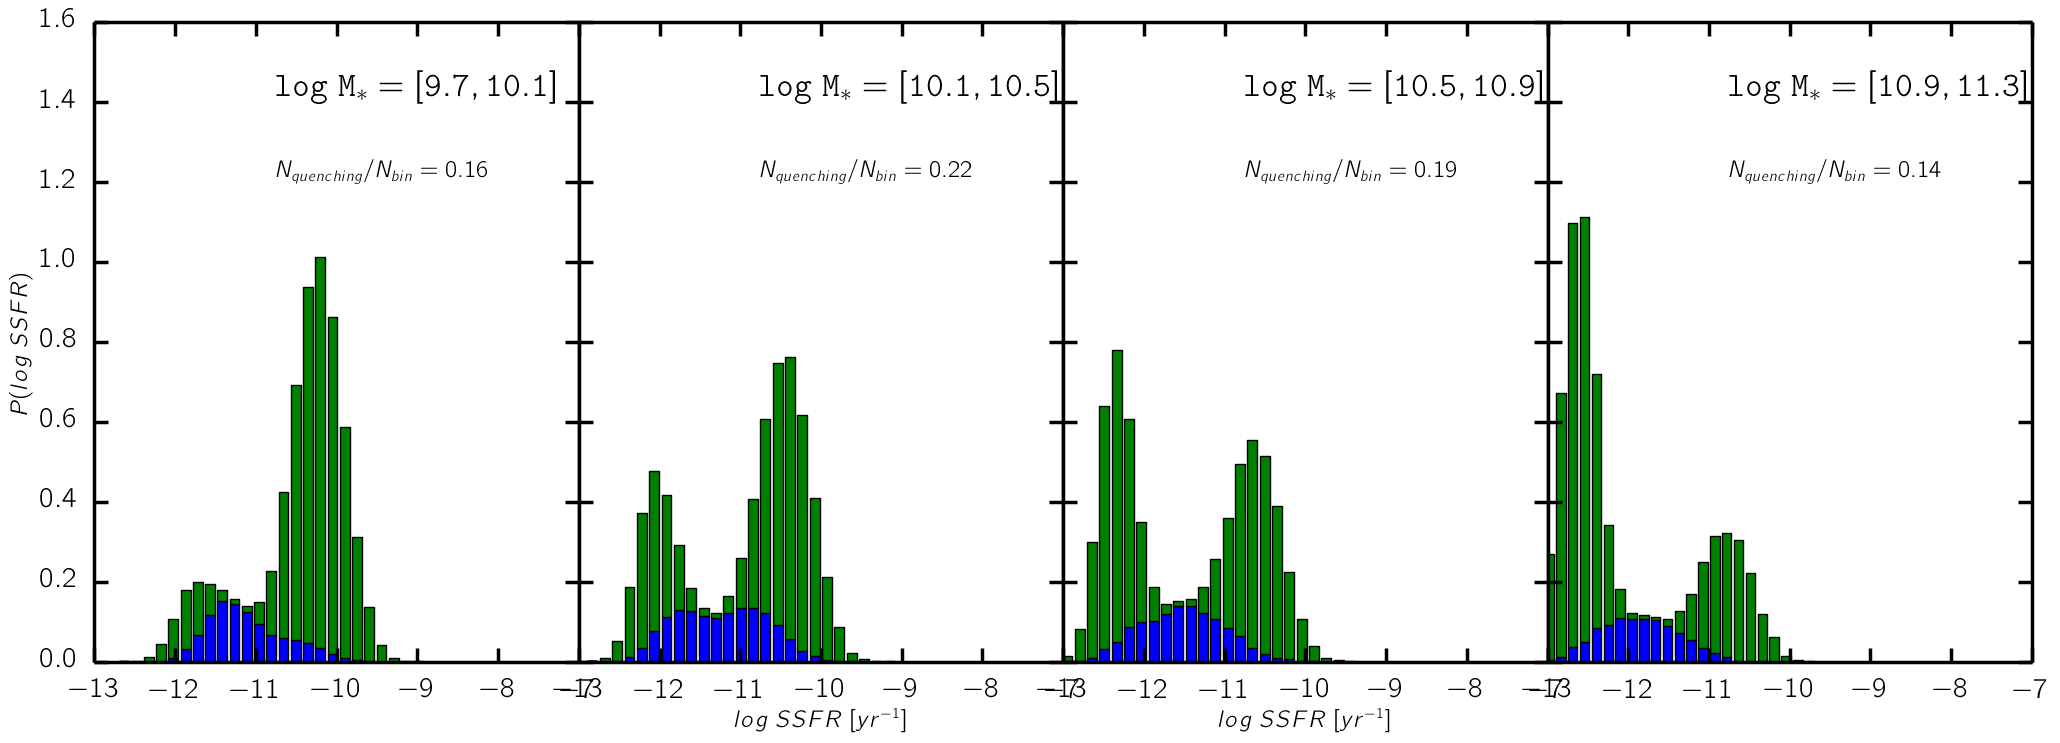
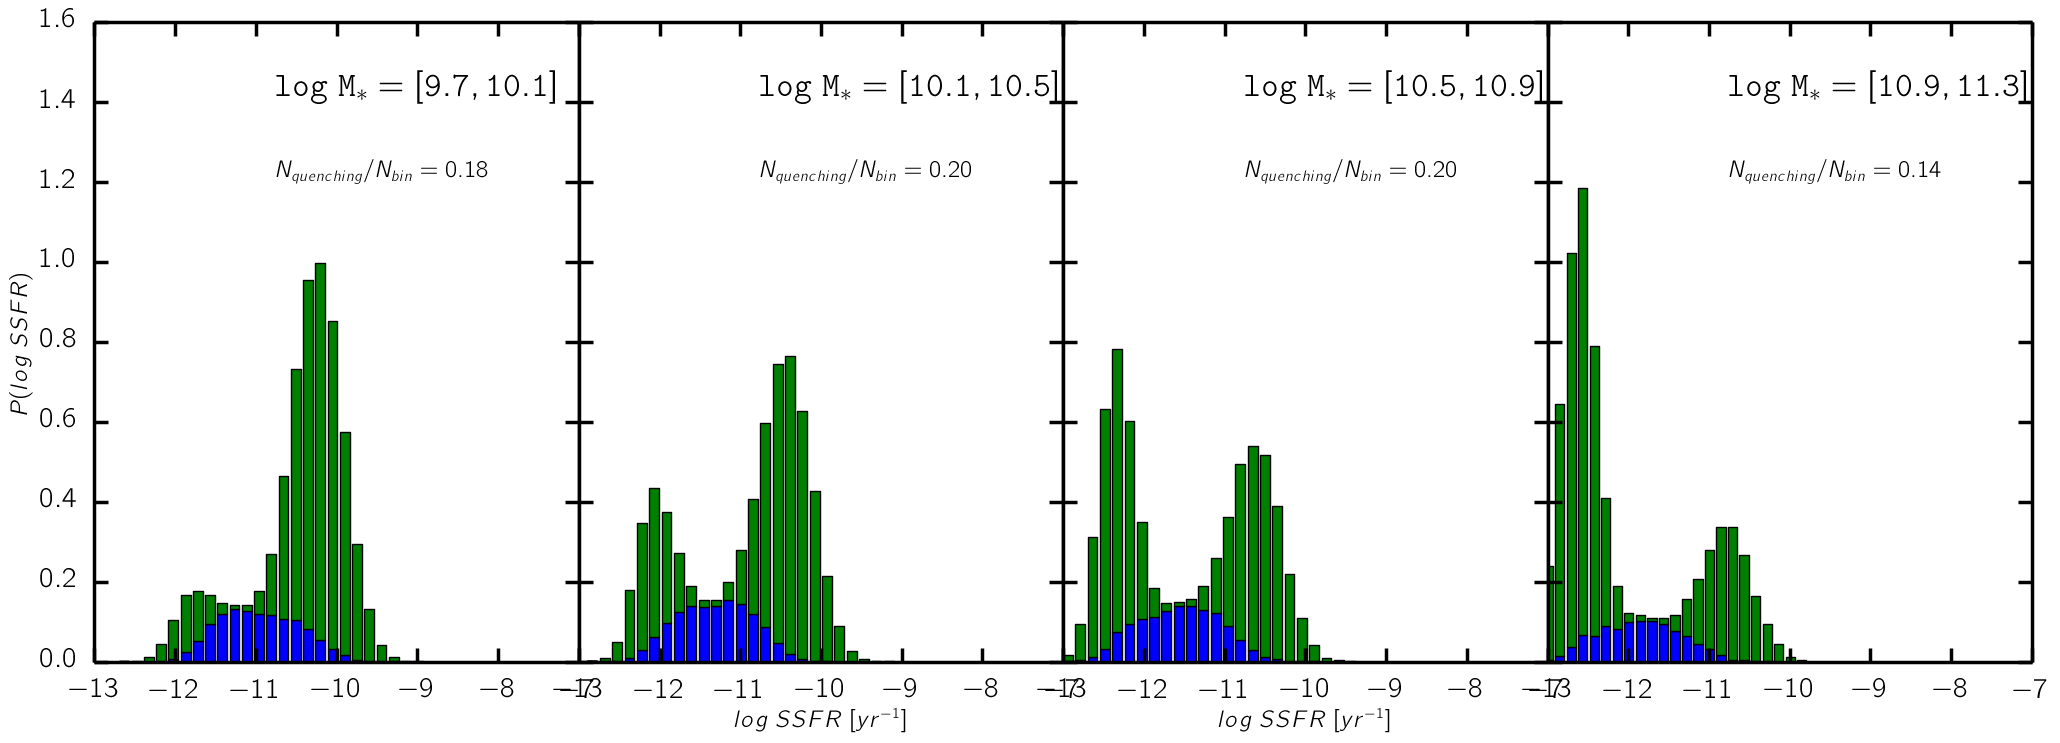
best fit for centrals complete; star formation duty cycle test in sf_mainseq.py

diff --git a/cenque_plot.py b/cenque_plot.py
@@ -27,8 +27,8 @@ def plot_cenque_ssfr_dist(cenque, fig=None, **kwargs):
     pretty_colors = prettycolors() 
     
     if fig == None: 
-        fig = plt.figure(1, figsize=(25,8))
-        fig.subplots_adjust(hspace=0., wspace=0.)
+        fig = plt.figure(1, figsize=(35,8))
+        #fig.subplots_adjust(hspace=0., wspace=0.)
         new_plot = True
     else: 
         new_plot = False
@@ -81,10 +81,11 @@ def plot_cenque_ssfr_dist(cenque, fig=None, **kwargs):
         else:
             line_width = 4
 
-        sub = fig.add_subplot(1, 4, i_mass+1)       # panel subplot 
+        sub = fig.add_subplot(1, 5, i_mass+1)       # panel subplot 
         sub.plot(ssfr_bin_mid, ssfr_hist, 
                 color=line_color, lw=line_width, ls=line_style, label=ssfr_hist_label) 
-    
+   
+        '''
         if cenque.zsnap: 
             ssfr_cut = -11.15 + 0.76*(cenque.zsnap - 0.05) - 0.35 * (panel_mass[0] - 10.5)
             sub.vlines( ssfr_cut, 0.0, 2.0, colors='black', linestyles='dashed')
@@ -92,10 +93,10 @@ def plot_cenque_ssfr_dist(cenque, fig=None, **kwargs):
             sub.vlines( ssfr_cut, 0.0, 2.0, colors='black', linestyles='solid')
             ssfr_cut = -11.15 + 0.76*(cenque.zsnap - 0.05) - 0.35 * (panel_mass[1] - 10.5)
             sub.vlines( ssfr_cut, 0.0, 2.0, colors='black', linestyles='dashed')
-
+        '''
         #sub.text(-12.0, 1.2, r'$N_{gal}='+str(ngal_bin)+'$')
         if new_plot == True:        # put mass labels in panels 
-            plt.text(-10.75, 1.4, 
+            plt.text(-11.25, 1.4, 
                     r'$\mathtt{log \; M_{*} = ['+str(panel_mass[0])+', '+str(panel_mass[1])+']}$', 
                     fontsize=24)
 
@@ -104,10 +105,10 @@ def plot_cenque_ssfr_dist(cenque, fig=None, **kwargs):
         sub.set_ylim([0.0, 1.6])
         # set y-axes labels
         if i_mass == 0: 
-            sub.set_ylabel(r'$P(log \; SSFR)$') 
+            sub.set_ylabel(r'$\mathtt{P(log \; SSFR)}$') 
         elif i_mass in [1, 2]:
             sub.set_yticklabels([])
-            sub.set_xlabel(r'$log \; SSFR \;[yr^{-1}]$') 
+            sub.set_xlabel(r'$\mathtt{log \; SSFR \;[yr^{-1}]}$') 
         else: 
             sub.set_yticklabels([])
                 
@@ -116,8 +117,32 @@ def plot_cenque_ssfr_dist(cenque, fig=None, **kwargs):
             except UnboundLocalError: 
                 pass
             
-            fig_leg = sub.legend(loc='lower right', prop={'size':'12'})        # legends 
+            fig_leg = sub.legend(loc='lower right', prop={'size':'24'})        # legends 
+    
+    if 'tau' in kwargs.keys(): 
+        sub = fig.add_subplot(1, 5, 5)       # tau panel 
 
+        mass_bin = util.simple_mass_bin()       # mass bin 
+        
+        # satellite quenching fraction 
+        tau_mass = util.get_quenching_efold(np.array(mass_bin.mass_mid), 
+                type='linear') 
+
+        sub.plot(mass_bin.mass_mid, tau_mass, color='black', lw=4, ls='--',
+                label=r'$\tau_\mathtt{satellite}$') 
+        
+        # central quenching fraction 
+        tau_mass = util.get_quenching_efold(np.array(mass_bin.mass_mid), 
+                type=kwargs['tau'], param=kwargs['tau_param']) 
+
+        sub.plot(mass_bin.mass_mid, tau_mass, color=pretty_colors[5], lw=4) 
+        
+        sub.set_xlim([9.0, 12.0])
+        sub.set_ylim([0.0, 1.0])
+        sub.set_xlabel('Mass') 
+        sub.set_ylabel(r'Quenching e-Fold time $\tau$') 
+        sub.yaxis.set_label_position('right')
+        sub.legend(loc='lower left', prop={'size':'24'}) 
     return fig   
 
 def plot_cenque_ssfr_dist_evolution(Mrcut=18, **kwargs): 
@@ -132,7 +157,7 @@ def plot_cenque_ssfr_dist_evolution(Mrcut=18, **kwargs):
     '''
     snap = cq.CenQue() 
     snap.readin(nsnap=13, file_type='sf assign', **kwargs)  # starting CenQue 
-    ssfr_fig = plot_cenque_ssfr_dist(snap, lw=2, line_style='--')      # plot!
+    #ssfr_fig = plot_cenque_ssfr_dist(snap, lw=2, line_style='--')      # plot!
     
     # determine which snapshots to plot 
     if 'nsnaps' in kwargs.keys():   
@@ -144,11 +169,12 @@ def plot_cenque_ssfr_dist_evolution(Mrcut=18, **kwargs):
         next_snap = cq.CenQue() 
         next_snap.readin(nsnap=i_nsnap, file_type='evol from 13', **kwargs) 
         
-        ssfr_fig = plot_cenque_ssfr_dist(next_snap, fig=ssfr_fig) 
+        #ssfr_fig = plot_cenque_ssfr_dist(next_snap, fig=ssfr_fig) 
+        ssfr_fig = plot_cenque_ssfr_dist(next_snap)#, fig=ssfr_fig) 
     
     # overplot SDSS group catalog sSFR dist
     central_ssfr = cq_group.central_catalog(Mrcut=Mrcut) 
-    ssfr_fig = plot_cenque_ssfr_dist(central_ssfr, fig=ssfr_fig, label= 'Mrcut = '+str(Mrcut)) 
+    ssfr_fig = plot_cenque_ssfr_dist(central_ssfr, fig=ssfr_fig, label= r'$M_\mathtt{r,cut} = '+str(Mrcut)+'$', **kwargs) 
     
     # file name ----------------------------------------------------------------------------
     # sfms specifier
@@ -1202,20 +1228,22 @@ if __name__=='__main__':
     #plot_cenque_ssfr_dist_evolution(nsnaps=[1], Mrcut=19, tau='linear')
     #plot_cenque_ssfr_dist_evolution(nsnaps=[1], Mrcut=18, tau='linear')
     
-    #plot_quenching_efold(['linear', 'linefit', 'linefit'], [[], [-0.6, 0.3], [-0.6, 0.4]]) 
+    #plot_quenching_efold(['linear', 'linefit', 'linefit'], [[], [-0.6, 0.3], [-0.7, 0.4]]) 
     
     tau_str = 'linefit'
-    tau_param_str = [-0.65, 0.4]
+    tau_param_str = [-0.7, 0.4]
     plot_cenque_ssfr_dist_evolution(nsnaps=[2], Mrcut=20, tau=tau_str, tau_param=tau_param_str)
     plot_cenque_ssfr_dist_evolution(nsnaps=[1], Mrcut=19, tau=tau_str, tau_param=tau_param_str)
     plot_cenque_ssfr_dist_evolution(nsnaps=[1], Mrcut=18, tau=tau_str, tau_param=tau_param_str)
     
+    '''
     for i in range(1,13): 
         plot_cenque_quenching_ssfr_dist(i, tau=tau_str, tau_param=tau_param_str)
 
     plot_snapshot_fqobs_evol(nsnaps=[1,2,3,4,5,6,7,8,9,10,11,12], fq_type='wetzelsmooth', tau=tau_str, tau_param=tau_param_str)
     for i in range(1,13): 
         plot_snapshot_fqobs(i, fq_type='wetzelsmooth', tau=tau_str, tau_param=tau_param_str)
+    '''
     #plot_ssfms_groupcat(Mrcut=18)
     #plot_ssfms_groupcat(Mrcut=19)
     #plot_ssfms_groupcat(Mrcut=20)

diff --git a/cenque.py b/cenque.py
@@ -620,19 +620,21 @@ def EvolveCenQue(origin_nsnap, final_nsnap, mass_bin=None, **kwargs):
             elif (mass_bins.mass_mid[i_m] < 11.5): 
                 alpha = 2.0 
             '''
-            alpha = 1.75
-            quenching_fraction = 0.025 * (mass_bins.mass_mid[i_m] - 9.5) * (1.8 - child_cq.zsnap)**alpha + 0.2
+            alpha = 1.5
+            quenching_fraction = 0.025 * (mass_bins.mass_mid[i_m] - 9.5) * (1.8 - child_cq.zsnap)**alpha + 0.15
+            #quenching_fraction = 0.2
             quenching_fractions.append(quenching_fraction)
 
             quenching_fraction = np.float(ngal_2quench)/np.float(ngal_totalq)
             quenching_fractionss.append(quenching_fraction)
             
-            alpha = 1.75
-            fqing1 = 0.025 * (mass_bins.mass_mid[i_m] - 9.5) * (1.8 - child_cq.zsnap)**alpha + 0.2
+            alpha = 1.5
+            fqing1 = 0.025 * (mass_bins.mass_mid[i_m] - 9.5) * (1.8 - child_cq.zsnap)**alpha + 0.15
+            #fqing1 = 0.2
                 
             fqing2 = np.float(ngal_2quench)/np.float(ngal_totalq)
 
-            if (mass_bins.mass_mid[i_m] < 10.75) and (fqing2 > fqing1): 
+            if (mass_bins.mass_mid[i_m] < 11.0) and (fqing2 > fqing1): 
                 quenching_fraction = fqing1
                 print '####################################### FQING 2 > FQING 1'
             else: 
@@ -731,4 +733,4 @@ if __name__=='__main__':
     #EvolveCenQue(13, 1, fqing_yint=-5.84, tau='instant')  
     #tau='linefit', tau_param=[-0.5, 0.4]) 
     #EvolveCenQue(13, 1, fqing_yint=-5.84, tau='linefit', tau_param=[-0.4, 0.2])
-    EvolveCenQue(13, 1, tau='linefit', tau_param=[-0.65, 0.4])
+    EvolveCenQue(13, 1, tau='linefit', tau_param=[-0.7, 0.4])

diff --git a/sf_mainseq.py b/sf_mainseq.py
@@ -189,6 +189,25 @@ def get_sfmsfit_slope_yint_file(slope, yint):
 
     return output_file 
 
+def sf_duty_test(): 
+    ''' Test of Star-Formation duty cycle
+
+    '''
+    n_snaps, z_snap, t_snap, t_wid = np.loadtxt('snapshot_table.dat', 
+            unpack=True, usecols=[0, 2, 3, 4])
+
+    t_snaps = t_snap[n_snaps < 13]
+    print t_snaps
+
+
+    sfr_amp = 0.3 * np.random.randn(1000)   # amplitude
+    sfr_w = 2.0 * np.pi  # frequency
+    sfr_d = 2.0 * np.pi * np.random.uniform(1000)
+
+    sfr_t = lambda t: sfr_amp * np.sin( sfr_w * t - sfr_d )
+    
+    for t in t_snaps: 
+
 # Group catalog SF-MS ----------------
 def build_groupcat_sf(Mrcut=18): 
     ''' Build SF population for the SDSS group catalog for group catalog with specified Mrcut 
@@ -608,13 +627,14 @@ def get_bestfit_envcount_sfms(clobber=False):
         return [f['slope_yint/slope'][:], f['slope_yint/yint'][:]] 
 
 if __name__=='__main__':
-    print get_bestfit_groupcat_sfms(Mrcut=18, clobber=True) 
-    print get_bestfit_groupcat_sfms(Mrcut=19, clobber=True) 
-    print get_bestfit_groupcat_sfms(Mrcut=20, clobber=True) 
+    sf_duty_test()
+    #print get_bestfit_groupcat_sfms(Mrcut=18, clobber=True) 
+    #print get_bestfit_groupcat_sfms(Mrcut=19, clobber=True) 
+    #print get_bestfit_groupcat_sfms(Mrcut=20, clobber=True) 
     #build_groupcat_sf(Mrcut=18)
     #build_groupcat_sf(Mrcut=19)
     #build_groupcat_sf(Mrcut=20)
 
     # SDSS group catalog best fit 
     #groupcat_slope, groupcat_yint = sdss_groupcat_sfms_bestfit()
-    print get_sfmsfit_sfr(groupcat_slope, groupcat_yint)
+    #print get_sfmsfit_sfr(groupcat_slope, groupcat_yint)
